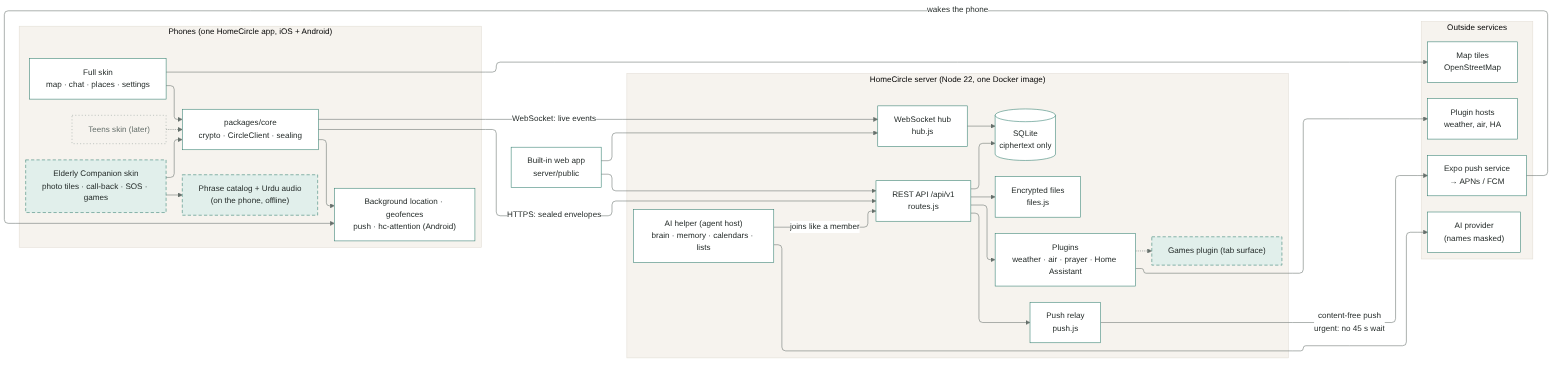
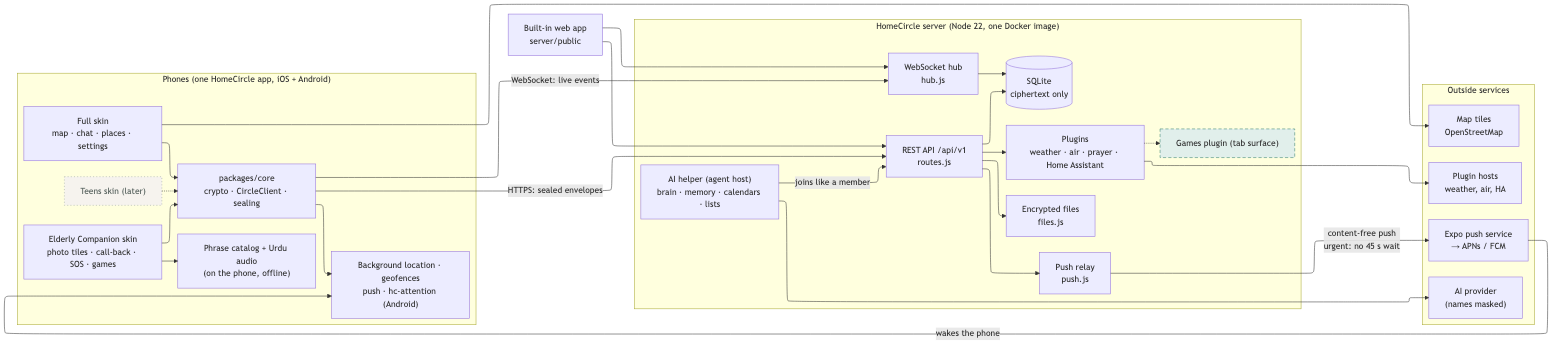
Changelogs; app and server 0.20.0
0.20.0: call-back requests from the Elderly Companion skin, long-press
replies and reminders in HomeCircle, urgent delivery, Mark someone as an
elder, and the 13+ confirmation in invites.

Docs, per the standing rule: ARCHITECTURE.md 1.3 (skins, call-back loop,
urgent delivery and phrase catalog built; diagrams re-rendered with
mermaid-cli, the skin and catalog now solid), PROTOCOL.md (call-back
records, elder invites, urgent flag and its threat-model rows), README
and the site (changelog, a Call me back card).

diff --git a/landing/index.html b/landing/index.html
@@ -173,6 +173,7 @@
       <div class="tiles">
         <article><span class="t-icon"><svg viewBox="0 0 24 24" width="20" height="20" fill="none" stroke="currentColor" stroke-width="1.8" stroke-linecap="round" stroke-linejoin="round" aria-hidden="true"><circle cx="12" cy="12" r="4"/><path d="M12 2v2M12 20v2M2 12h2M20 12h2M4.9 4.9l1.4 1.4M17.7 17.7l1.4 1.4M4.9 19.1l1.4-1.4M17.7 6.3l1.4-1.4"/></svg></span><h3>Weather</h3><p>The weather where the person you select is, with the next 12 hours. Only a rough area is used to look it up.</p></article>
         <article><span class="t-icon"><svg viewBox="0 0 24 24" width="20" height="20" fill="none" stroke="currentColor" stroke-width="1.8" stroke-linecap="round" stroke-linejoin="round" aria-hidden="true"><path d="M3 8h11a3 3 0 1 0-3-3M3 12h16a3 3 0 1 1-3 3M3 16h8"/></svg></span><h3>Air and pollen</h3><p>Air quality and pollen for trees, grass and weeds, wherever they are.</p></article>
+        <article><span class="t-icon"><svg viewBox="0 0 24 24" width="20" height="20" fill="none" stroke="currentColor" stroke-width="1.8" stroke-linecap="round" stroke-linejoin="round" aria-hidden="true"><path d="M5 4h3.5l1.5 4-2 1.5a11 11 0 0 0 6.5 6.5l1.5-2 4 1.5V19a1.5 1.5 0 0 1-1.5 1.5A15.5 15.5 0 0 1 3.5 5.5 1.5 1.5 0 0 1 5 4Z"/></svg></span><h3>Call me back</h3><p>Simple screens for a grandparent: big photo tiles and one button that asks the family to call. She hears your answer in Urdu.</p></article>
         <article><span class="t-icon"><svg viewBox="0 0 24 24" width="20" height="20" fill="none" stroke="currentColor" stroke-width="1.8" stroke-linecap="round" stroke-linejoin="round" aria-hidden="true"><path d="M3 11l9-7 9 7v9h-6v-6H9v6H3z"/></svg></span><h3>Home Assistant</h3><p>Everyone’s location in your Home Assistant, for “lights on when Maya gets home”. Each person can turn theirs off.</p></article>
       </div>
     </section>

diff --git a/landing/changelog.js b/landing/changelog.js
@@ -1,6 +1,18 @@
 // What's new in each version, newest first. Add an entry with every release.
 window.HOMECIRCLE_CHANGELOG = [
   {
+    version: '0.20.0',
+    date: '2026-10-28',
+    title: 'Call me back, for grandparents',
+    items: [
+      'An elderly parent taps one big button to ask the family to call her back, or taps one person’s photo to ask just them.',
+      'The request appears in your circle’s group chat. Long-press it to answer: calling now, in 5 minutes, in the morning or in the evening. She hears your answer in Urdu.',
+      'Until someone is calling, the people asked get a reminder every 10 minutes. The first “I’m calling you now” stops them for everyone.',
+      'Settings → Circle → Mark someone as an elder switches her phone to simple screens: big tiles, Ring everyone and SOS, and nothing else to get lost in.',
+      'Call-back requests and SOS now arrive at once instead of up to 45 seconds later.',
+    ],
+  },
+  {
     version: '0.19.2',
     date: '2026-10-27',
     title: 'Everything you buy, ready to pick',

diff --git a/docs/ARCHITECTURE.md b/docs/ARCHITECTURE.md
@@ -2,9 +2,9 @@
 
 | | |
 |---|---|
-| **Doc version** | 1.2 |
+| **Doc version** | 1.3 |
 | **Updated** | 2026-10-28 |
-| **Describes** | HomeCircle 0.19.2 as built, plus the planned Elderly Companion skin, Games plugin, family names, photos and languages (marked *planned*) |
+| **Describes** | HomeCircle 0.20.0 as built, including the Elderly Companion skin, the call-back loop, urgent delivery and the phrase catalog; plus the planned Elderly Companion settings, Games plugin, family names and photos (marked *planned*) |
 | **Source of truth for planned features** | `PRD.md` and the handoff kickoff. Where this doc and the PRD disagree, the PRD wins. |
 
 HomeCircle is a self-hosted, end-to-end encrypted family app: a live family map, Locate, place arrival alerts, family chat, an AI helper and optional plugins. One server hosts many isolated **circles**. Phones encrypt everything before upload; the server stores and relays ciphertext it cannot read.
@@ -26,13 +26,14 @@ These come first. A feature that can't meet them is redesigned, not shipped.
 
 | Feature | Design consequence |
 |---|---|
-| **Call-back urgency (decided: urgent flag)** | Today the server coalesces chat pushes to one per member every 45 s (`push.js`, `ACTIVITY_COALESCE_MS`), and it can't tell a call-back request from a chat message, so a request could arrive up to 45 s late. Decision: messages carry an outer `urgent: true` flag that skips coalescing and is pushed at once, at high priority. It's used only for call-back requests, replies to the elder, "taken" notices and SOS. The push payload stays identical to a normal message push, so Apple, Google and Expo learn nothing new. The server learns that member X sent an urgent message at time T (never what or why); this is added to the threat model in `PROTOCOL.md`. The server rate-limits urgent messages per sender (e.g. 10 a minute), and anything over the limit falls back to normal coalesced delivery, never dropped. |
-| **Call-back reminders** | The server can't read requests, so it can't send reminders. Each family member's phone schedules its own local reminders when a request arrives and cancels them when it sees "taken". This works even if her phone goes offline and adds no server traffic. |
-| **Asleep and DND** | Detected on each family member's phone, which then sends her the sealed "asleep" reply. The server never learns who is asleep. |
-| **Inactivity check-in** | Family phones already see when her phone last uploaded a location (sealed, with a time). They raise the check-in locally; no new server logic. |
-| **Elder config, skins, family names, photos** | Sealed, signed records, verified on the phones against the setter's right to set them (admin, or the person themself). Photos are encrypted files like today's uploads. |
+| **Call-back urgency (built, 0.20.0)** | The server coalesces chat pushes to one per member every 45 s (`push.js`, `ACTIVITY_COALESCE_MS`), and it can't tell a call-back request from a chat message, so a request could arrive up to 45 s late. Decision: messages carry an outer `urgent: true` flag that skips coalescing and is pushed at once, at high priority. It's used only for call-back requests, replies to the elder, "taken" notices and SOS. The push payload stays identical to a normal message push, so Apple, Google and Expo learn nothing new. The server learns that member X sent an urgent message at time T (never what or why); this is added to the threat model in `PROTOCOL.md`. The server rate-limits urgent messages per sender (10 a minute), and anything over the limit falls back to normal coalesced delivery, never dropped. |
+| **Call-back reminders (built, 0.20.0)** | The server can't read requests, so it can't send reminders. Each family member's phone schedules its own local reminders when a request arrives and cancels them when it sees "taken". This works even if her phone goes offline and adds no server traffic. |
+| **Asleep and DND (planned)** | Detected on each family member's phone, which then sends her the sealed "asleep" reply. The server never learns who is asleep. |
+| **Inactivity check-in (planned)** | Family phones already see when her phone last uploaded a location (sealed, with a time). They raise the check-in locally; no new server logic. |
+| **Skins (built, 0.20.0)** | Chosen by an admin; today the skin travels sealed inside the elder's invite, and the phone remembers it. The server never learns who uses which skin. |
+| **Elder config, family names, photos (planned)** | Sealed, signed records, verified on the phones against the setter's right to set them (admin, or the person themself). Photos are encrypted files like today's uploads. |
 | **Games** | Moves sealed with the pair's direct key, signed, rule-checked on both phones; races resolved by the server's existing message order. |
-| **Languages and audio** | The phrase catalog and recordings ship in the app; only keys and names travel, sealed. Nothing language-specific reaches the server. |
+| **Languages and audio (built, 0.20.0; recordings are placeholders)** | The phrase catalog and recordings ship in the app; only keys and names travel, sealed. Nothing language-specific reaches the server. |
 
 ## 1. Repository layout
 
@@ -40,7 +41,7 @@ These come first. A feature that can't meet them is redesigned, not shipped.
 |---|---|
 | `packages/core/` | Shared JavaScript used by the mobile app, the built-in web app, the agent and tests: crypto (`crypto.js`, TweetNaCl), the circle client (`client.js`), the API wrapper (`api.js`), the agent client (`agent.js`), features (`features.js`), places, prayer times, emoji. |
 | `server/` | Node.js 22 server. `src/http.js` and `routes.js` (REST API under `/api/v1`), `hub.js` (WebSocket relay), `db.js` (SQLite via `node:sqlite`), `push.js` (content-free push through Expo), `files.js` (encrypted uploads), `plugins/` (weather, air, prayer, Home Assistant), `agent/` (the AI helper), `public/` (the built-in web app). |
-| `mobile/` | iOS and Android app, Expo / React Native with Expo Router. `src/app/` (screens and tabs), `src/lib/` (location, push, notifications, chirps, SOS, storage), `src/map/`, `modules/hc-attention/` (Android-only native module: Do Not Disturb, flash, alarm sound). |
+| `mobile/` | iOS and Android app, Expo / React Native with Expo Router. `src/app/` (screens and tabs; `src/app/companion/` is the Elderly Companion skin), `src/skins/` (the list of skins), `src/companion/` (her lines, status and offline queue), `src/lib/` (location, push, notifications, call-back reminders, chirps, SOS, storage), `src/map/`, `assets/phrases/` (the phrase catalog and recordings, built by `scripts/phrases.mjs`), `modules/hc-attention/` (Android-only native module: Do Not Disturb, flash, alarm sound, playing phrase recordings in sequence). |
 | `homecircle/` | Home Assistant add-on packaging (`config.yaml`, changelog). |
 | `landing/` | Marketing site and "choose your server" wizard (static). |
 | `deploy/` | Docker Compose, Caddy, installer, cloud-init, hosting guides. |
@@ -61,9 +62,9 @@ flowchart LR
   subgraph Phones["Phones (one HomeCircle app, iOS + Android)"]
     direction TB
     Full["Full skin<br/>map · chat · places · settings"]
-    Elder["Elderly Companion skin<br/>photo tiles · call-back · SOS · games"]:::planned
+    Elder["Elderly Companion skin<br/>photo tiles · call-back · SOS · games"]
     Teen["Teens skin (later)"]:::later
-    Catalog["Phrase catalog + Urdu audio<br/>(on the phone, offline)"]:::planned
+    Catalog["Phrase catalog + Urdu audio<br/>(on the phone, offline)"]
     Core["packages/core<br/>crypto · CircleClient · sealing"]
     Native["Background location · geofences<br/>push · hc-attention (Android)"]
     Full --> Core
@@ -140,7 +141,9 @@ The server is deliberately thin: it authenticates devices, scopes every request 
 Runs next to the server when `AGENT=true`. It joins a circle like a member, through an invite sealed to the agent host, so it holds its own keys but never the circle key. `brain.js` understands requests and runs **Dream** (tidying shared notes); `memory.js` stores notes encrypted on disk (SQLite FTS); `names.js` swaps people and places for stand-ins (Person A, Place 1) before anything reaches the AI provider. Known issue: two names for one person get two stand-ins, so Dream can't merge them (fixes doc, item 1).
 
 ### Mobile app
-Expo Router app with tabs Map, Chats, Places (hidden when location sharing is off) and Settings. Background location runs on a schedule (about every 15 minutes), on big moves and on geofence events; Locate sends a silent push that triggers one fresh fix. Android-only code is guarded by `Platform.OS` and the optional `hc-attention` native module; on iOS those calls do nothing. iOS has not been shipped yet (see the iOS checklist).
+Expo Router app with tabs Map, Chats, Places (hidden when location sharing is off) and Settings.
+
+**Skins.** `src/skins` lists the skins: Full (the tabs) and Elderly Companion (`src/app/companion`: big tiles per circle, Ring everyone, a person's Call me back, SOS by press and hold to care circles only). A skin is a route root and whether it's locked. The phone remembers its skin; a locked skin's phone never reaches the tabs, and new skins (teens, later) add an entry and a route folder without touching the plumbing. An elder's invite carries her name, page (care or grandkids) and skin, sealed; HomeCircle's normal join screen takes it. Her phone never shows message text: replies to her requests play as phrase recordings (`playSequence` in `hc-attention`), and requests made offline wait and go by themselves. Background location runs on a schedule (about every 15 minutes), on big moves and on geofence events; Locate sends a silent push that triggers one fresh fix. Android-only code is guarded by `Platform.OS` and the optional `hc-attention` native module; on iOS those calls do nothing. iOS has not been shipped yet (see the iOS checklist).
 
 ## 4. Data and encryption
 
@@ -151,23 +154,23 @@ Summary of `PROTOCOL.md`:
 - **The server can see:** circles and members, IP addresses, upload timing, ciphertext sizes, push tokens. **It cannot see:** names, locations, messages, places, battery or anything in a body.
 - **Retention:** messages are kept 1 to 365 days per circle (default 90).
 
-**Planned record kinds and events** (exact names decided in Claude Code's plan, then recorded in `PROTOCOL.md` and here):
+**New record kinds and events** (built ones are in `PROTOCOL.md`; planned ones get their exact names when they ship):
 
 | Planned | Purpose | Encrypted with |
 |---|---|---|
-| Skin and Elderly Companion config | Which skin a person's app shows; her tiles, sleep hours, language, Ring everyone switch | Circle key |
-| Call-back request, reply, taken | The call-back loop | Circle key (group chat) |
+| Skin (built: in the elder's invite) and Elderly Companion config (planned: admin record) | Which skin a person's app shows; her tiles, sleep hours, language, Ring everyone switch | Invite wrap key; then circle key |
+| Call-back request, reply, taken (built: `callback` in group chat, see `PROTOCOL.md`) | The call-back loop | Circle key (group chat) |
 | `alias` (family names and other names) | Who calls whom what; several names for one person | Circle key |
 | Photo reference | Profile and admin-added tile photos (the image is an encrypted file) | Circle key |
 | `game.create`, `game.move`, `game.resign`, `game.rematch` | Turn-based games between two people | The pair's direct key |
-| Outer `urgent` flag on `POST /messages` (not sealed: the server must read it) | Skip push coalescing for call-backs and SOS | None: it's routing metadata, like `to` on a DM |
+| Outer `urgent` flag on `POST /messages` (built; not sealed: the server must read it) | Skip push coalescing for call-backs and SOS | None: it's routing metadata, like `to` on a DM |
 
 ## 5. Key flows
 
 ### Today: a chat message
 Phone seals the message → `POST /messages` → server stores ciphertext and assigns a sequence number → WebSocket to open apps, content-free push to the rest → each phone opens and verifies it locally.
 
-### Planned: the call-back loop
+### The call-back loop (0.20.0)
 
 ![Call-back loop](callback-sequence.png)
 
@@ -215,6 +218,7 @@ Planned items move from dashed to solid once they ship.
 
 | Doc version | Date | Changes |
 |---|---|---|
+| 1.3 | 2026-10-28 | HomeCircle 0.20.0: the Elderly Companion skin, skins system, call-back loop, urgent delivery and phrase catalog are built (solid in the diagram). Repository layout, mobile app, principles table and record kinds updated. |
 | 1.2 | 2026-10-28 | Bundle 1.2: PRD added to the handoff. No architecture changes; diagrams unchanged. |
 | 1.1 | 2026-10-28 | Decided the call-back urgency question: an outer `urgent` flag skips push coalescing for call-backs and SOS, rate-limited per sender, with an identical push payload. Updated principles table, planned records, sequence diagram and architecture diagram. |
 | 1.0 | 2026-10-28 | First version: current architecture of HomeCircle 0.19.2, plus planned Elderly Companion skin, skins system, call-back loop, Games plugin, family names and aliases, photos, and phrase catalog. |

diff --git a/docs/PROTOCOL.md b/docs/PROTOCOL.md
@@ -17,9 +17,9 @@ so the circles can't read each other even through a shared device account.
 
 | Party | Can see | Cannot see |
 |---|---|---|
-| Your server / hosting provider (Render, Railway, Hetzner, …) | number of circles and members, IP addresses, when each phone uploads, ciphertext sizes, push tokens (and so which members share a phone) | names, locations, messages, places, battery |
+| Your server / hosting provider (Render, Railway, Hetzner, …) | number of circles and members, IP addresses, when each phone uploads, ciphertext sizes, push tokens (and so which members share a phone), and which messages their sender marked `urgent` (call-back requests and replies, SOS) and when | names, locations, messages, places, battery, what an urgent message is or why |
 | Network attacker | nothing beyond TLS metadata | everything else |
-| Apple / Google / Expo push relay | that a push was sent to a device, and its type (`loc_req`, `msg`) | any content |
+| Apple / Google / Expo push relay | that a push was sent to a device, and its type (`loc_req`, `msg`); urgent messages are pushed at once rather than batched, so their timing is less bunched | any content (an urgent push is identical to any other) |
 | Map tile provider (OpenStreetMap by default) | which map area you *view*, and your IP | who you are tracking or why |
 | A removed member | everything up to their removal | anything after the key is rotated |
 
@@ -100,6 +100,15 @@ revoked when the key rotates.
 Join: `POST /join/preview {inviteId, inviteAuth}` → `wrapped`; the joiner
 decrypts it, generates keys, seals a profile, then `POST /join` consumes the
 invite and returns a device token.
+
+**An elder's invite** (Settings → Circle → Mark someone as an elder) adds
+`companion: { name, page, skin }` inside `wrapped`: the name the family gave
+her, whether this circle is her `care` or `grandkids` page, and the skin her
+phone shows (`elderly` today). Her phone joins under that name, so nobody
+types on it, and switches to that skin as it joins. The server sees the same
+`wrapped` box as for any invite. Invites can last up to 168 hours; an elder's
+lasts 7 days, so a helper near her has time to set up her phone. The inviter
+confirms in the app that the person is 13 or older.
 
 ## Removing a member and rotating the key
 
@@ -196,6 +205,28 @@ DM can't be passed off as a group message or redirected to someone else. The
 server stores `to_id` in the clear (it routes the message) and only returns a
 DM to its sender and recipient. Reactions to a DM are DMs too.
 
+**Call-back requests** come from a phone in the Elderly Companion skin.
+A request is a group `chat` message whose sealed body carries
+`callback: { state: "ask", for, tz, awake, remind }`: `for` is `null`
+(everyone in the circle) or one member id, `tz` her time zone, `awake`
+whether it's outside her sleep hours, and `remind` the minutes between
+reminders on the family's phones (`0` for none). Replies are group `chat`
+messages with `callback: { state: "reply", of, reply }`, where `reply` is
+`now`, `5min`, `morning` or `evening` (her time). The first `now` in server
+order takes the request and closes it for everyone; a reply from the asker
+herself, or sent as a direct message, doesn't count. Each family phone
+schedules its own reminders while a request that asks it is open and it
+hasn't replied, so the server never learns about reminders. Both carry a
+readable `text` for older apps.
+
+**Urgent messages.** `POST /messages` takes an outer `urgent: true`
+(routing metadata, like `to`) on call-back requests, replies to them and SOS
+start and safe. Its push goes at once instead of waiting out the server's
+45-second batching of chat pushes, and stands in for any batched one still
+waiting; the push itself is the same as any other. Past 10 urgent messages
+a minute from one sender, the rest are delivered like ordinary messages,
+never refused.
+
 **Retention.** Each circle keeps messages (group and direct) for 1, 7, 30, 90
 or 365 days, chosen by its admins (`PUT /circle/retention`, default 90).
 Nothing is ever kept longer than a year; `MESSAGE_RETENTION_DAYS` can only
@@ -226,7 +257,7 @@ circle that has it. Addresses are looked up with the phone's own geocoder
 | POST | `/circles` | server admin: create another circle |
 | DELETE | `/circle` | owner: delete the circle |
 | PUT | `/circle/retention` | admin: `{ days: 1 \| 7 \| 30 \| 90 \| 365 }` |
-| GET / POST | `/messages` | group messages + your DMs; `to` makes a DM |
+| GET / POST | `/messages` | group messages + your DMs; `to` makes a DM; `urgent: true` skips push batching (10 a minute per sender) |
 | PUT | `/members/me/profile` | re-seal profile |
 | PUT | `/members/me/push` | register push token |
 | DELETE | `/members/:id` | admin, or yourself (leave) |

diff --git a/homecircle/CHANGELOG.md b/homecircle/CHANGELOG.md
@@ -2,6 +2,25 @@
 
 See the full list of changes on <https://homecircle.umair.us/#changelog>.
 
+## 0.20.0
+
+- Call-back requests: an elderly family member on the simple Elderly
+  Companion screens asks the whole circle, or one person, to call her back.
+  The request shows in the group chat; long-press (or tap) it to answer:
+  calling now, in 5 minutes, in the morning or in the evening (her time).
+  She hears the answer in Urdu. Until someone says they're calling now, the
+  people asked get a reminder every 10 minutes from their own phone.
+- Elderly Companion skin: Settings → Circle → Mark someone as an elder makes
+  an invite that switches her phone to big tiles, Ring everyone and SOS
+  (press and hold, to her care circle only), with no way back to the full
+  app from her phone. Her requests wait for the internet if there's none.
+  Her spoken lines are placeholder tones until the Urdu recordings are made.
+- Urgent delivery: call-back requests and replies and SOS skip the
+  45-second push batching and arrive at once. The push looks like any other;
+  the server only learns that a message was marked urgent.
+- Invites ask you to confirm the person is 13 or older.
+- The web app shows call-back requests with reply buttons.
+
 ## 0.19.2
 
 - Shopping lists: everything bought at a store (from receipts, order

diff --git a/README.md b/README.md
@@ -6,6 +6,7 @@ arrival alerts for places, and family chat.
 
 - **One server, many circles.** Run one server for your household, your parents and siblings, or anyone else. Each circle is isolated: people only see the circles they joined.
 - **End-to-end encrypted.** Phones encrypt everything before upload. The server and your hosting provider only see ciphertext.
+- **Call me back, for grandparents.** An Elderly Companion skin turns an elder's phone into big photo tiles: one tap asks the family to call her, and she hears their answer in Urdu.
 - **Battery-friendly.** Updates about every 15 minutes (configurable from 5 to 60), on big moves, on place arrivals, or right away when someone taps **Locate**.
 - **Host anywhere.** Render, Railway, Fly.io, DigitalOcean, Hetzner, any VPS, or a Raspberry Pi at home. They all use one Docker image.
 
